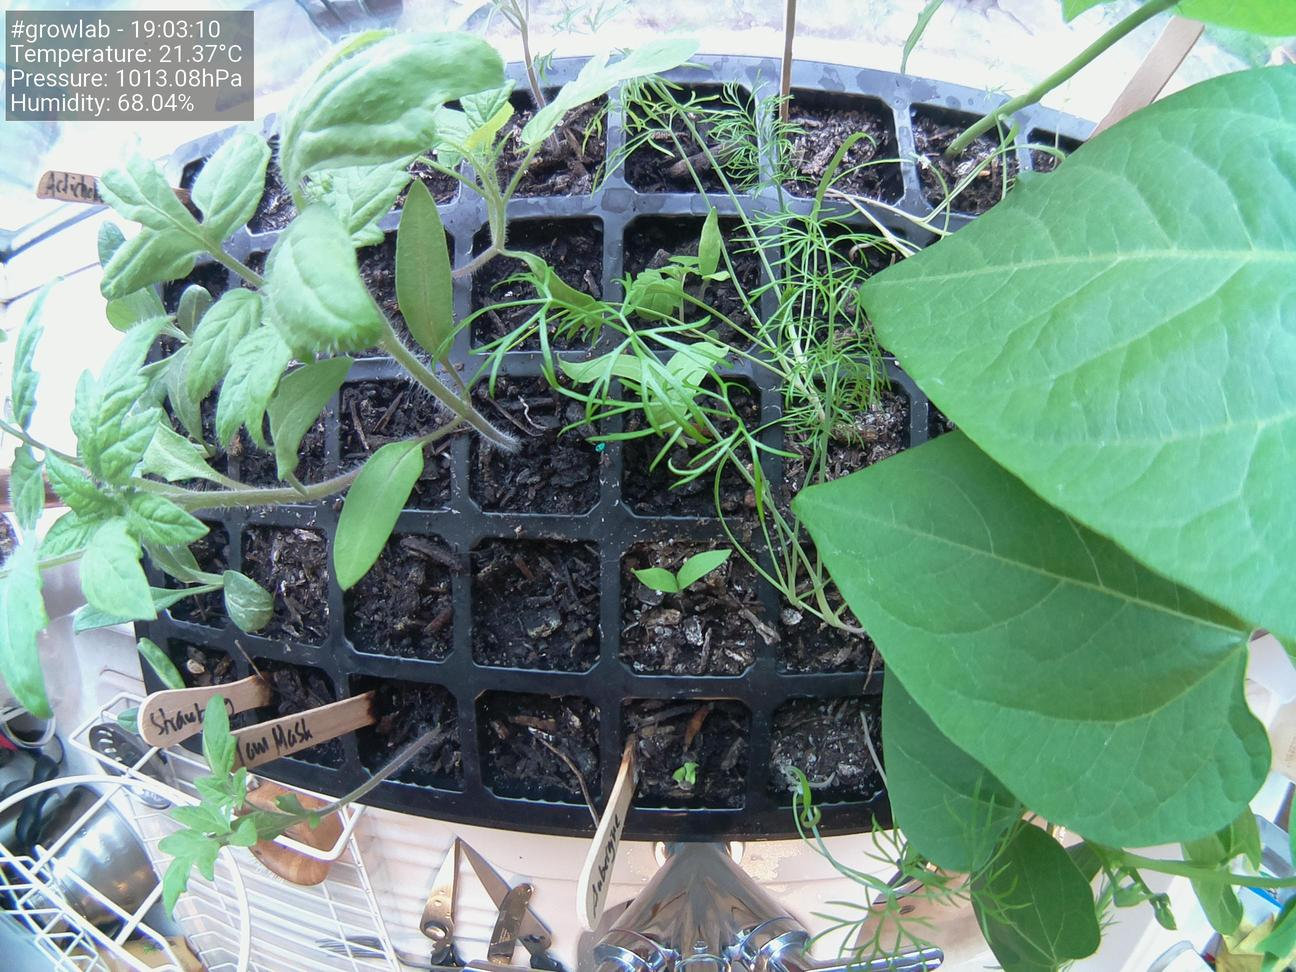
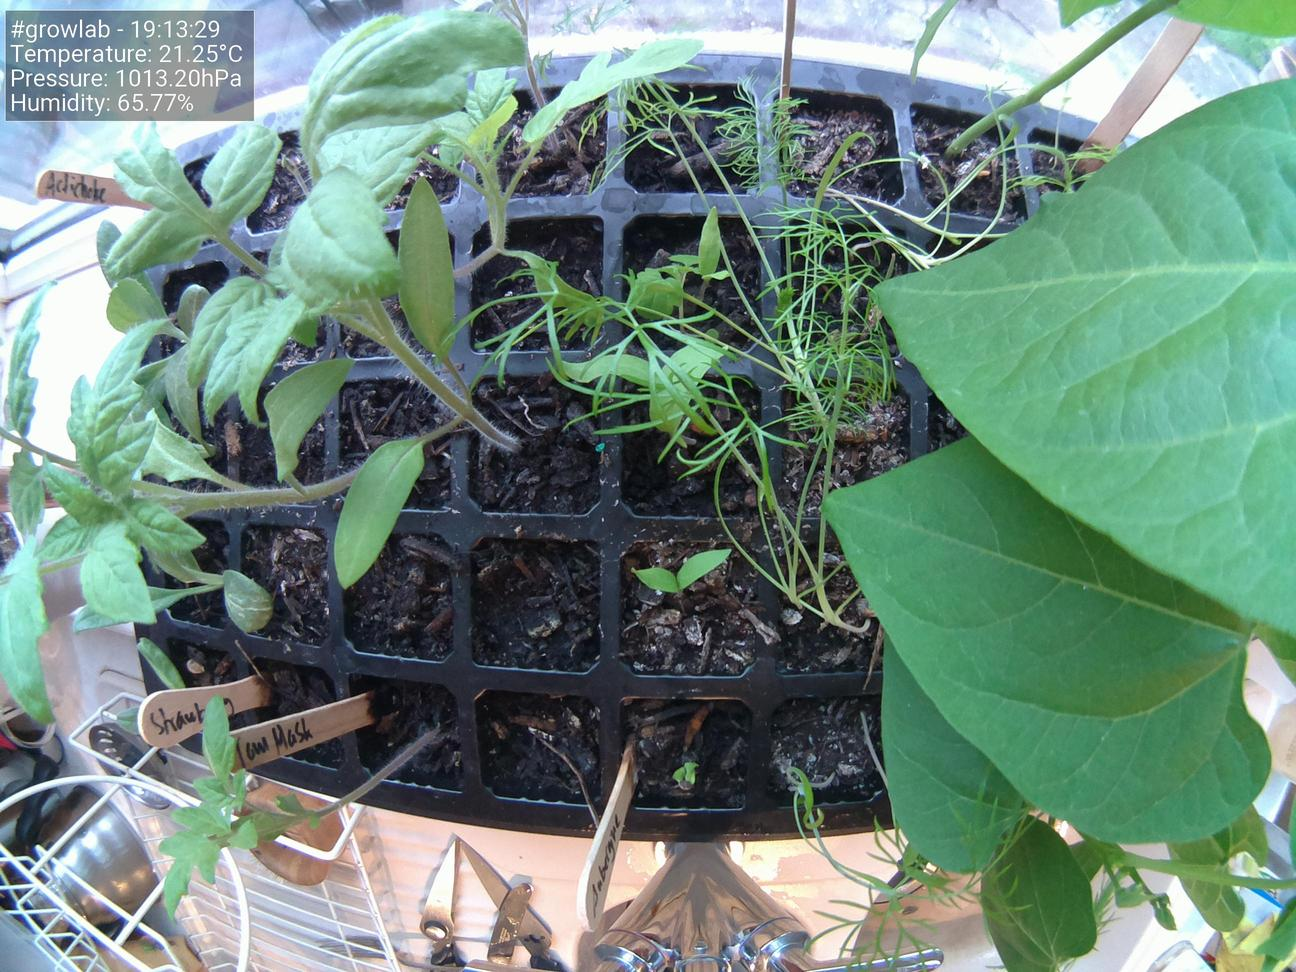
Update images at Thu 29 Apr 19:13:41 BST 2021

diff --git a/docs/index.html b/docs/index.html
@@ -38,19 +38,19 @@
                     <tbody>
                         <tr>
                             <td>Time</td>
-                            <td>19:03:10</td>
+                            <td>19:13:29</td>
                         </tr>
                         <tr>
                             <td>Temperature</td>
-                            <td>21.37°C</td>
+                            <td>21.25°C</td>
                         </tr>
                         <tr>
                             <td>Humidity</td>
-                            <td>68.04%</td>
+                            <td>65.77%</td>
                         </tr>
                         <tr>
                             <td>Pressure</td>
-                            <td>1013.08hPa</td>
+                            <td>1013.20hPa</td>
                         </tr>
                     </tbody>
                 </table>
@@ -58,7 +58,7 @@
 
                 <h5>Latest image</h5>
 		<div style="width: 85%;">
-	                <img class="figure-img img-fluid rounded" src="./preview.jpg?uid=1619719401.407601">
+	                <img class="figure-img img-fluid rounded" src="./preview.jpg?uid=1619720020.9164534">
 		</div>
             </div>
         </div>
